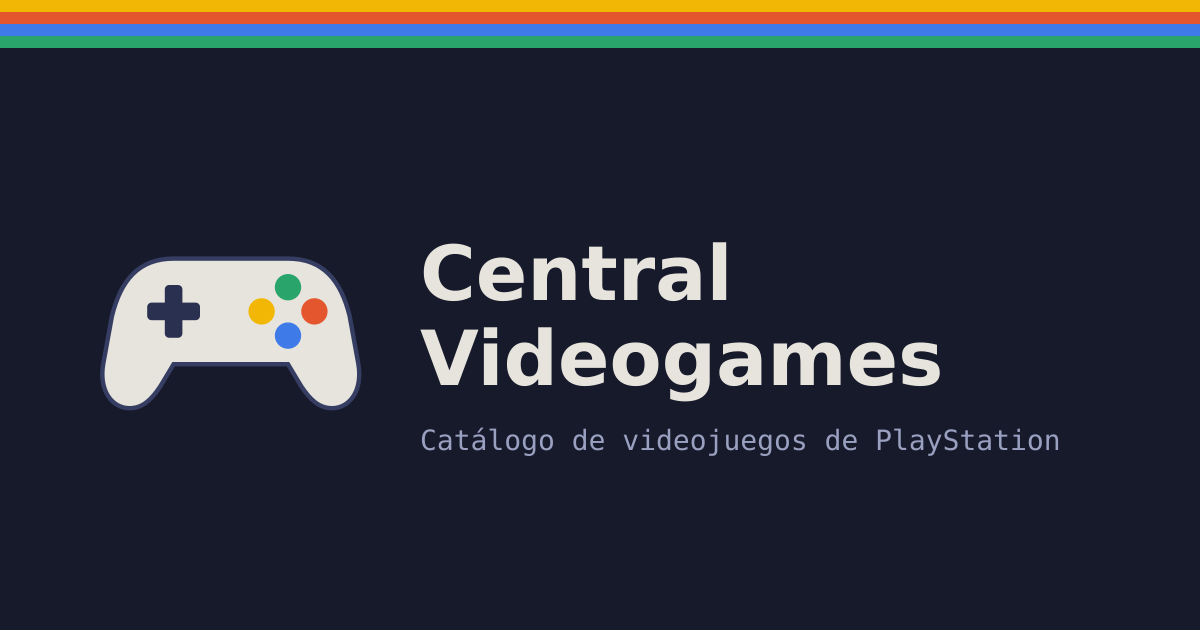
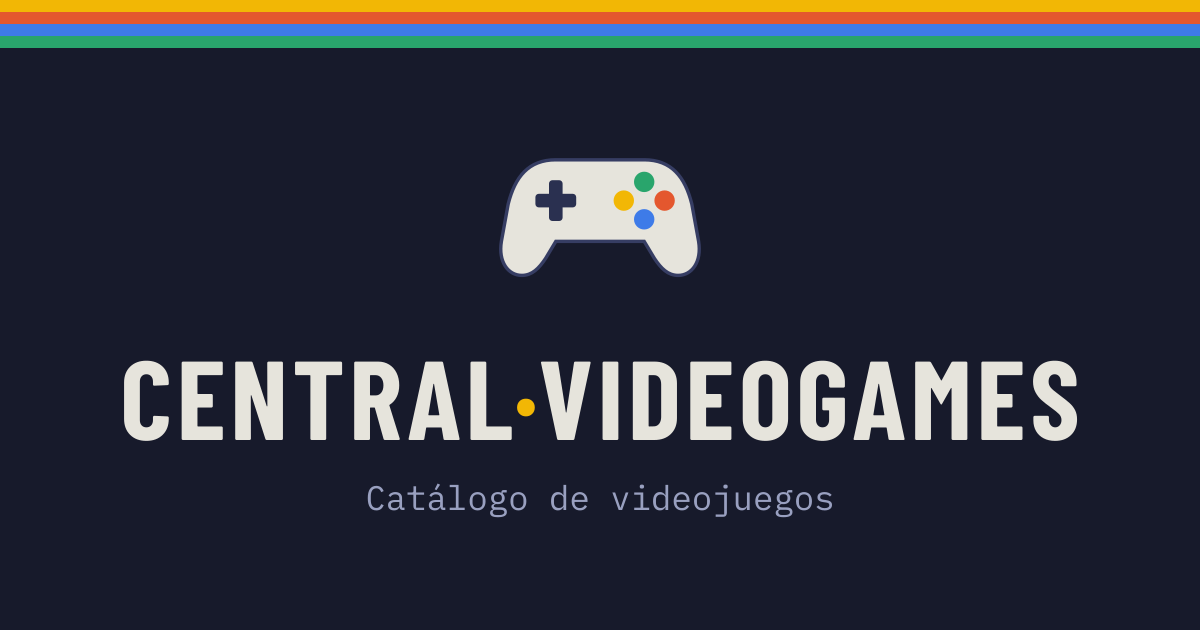
(UI) volver desde la ficha conserva los filtros, mando en cabecera y nueva imagen

Changed region(s): [[0.0617, 0.3921, 0.8942, 0.7238], [0.3392, 0.2413, 0.6167, 0.4825], [0.3083, 0.754, 0.7092, 0.8143]]

diff --git a/frontend/src/pages/GameDetailPage.jsx b/frontend/src/pages/GameDetailPage.jsx
@@ -1,5 +1,5 @@
 import { useState, useEffect, useRef } from 'react';
-import { useParams, Link, useNavigate } from 'react-router-dom';
+import { useParams, Link, useNavigate, useLocation } from 'react-router-dom';
 import { fetchGame, deleteGame, toNames, platformCodes, shellColor, coverImage } from '../api/games';
 import { useAuth } from '../auth/AuthContext';
 import GameFormModal from '../components/GameFormModal';
@@ -8,6 +8,17 @@ import GameTrailer from '../components/GameTrailer';
 export default function GameDetailPage() {
   const { id } = useParams();          // lee el :id de la URL /juegos/:id
   const navigate = useNavigate();
+  const location = useLocation();
+
+  // Si se llegó a la ficha navegando dentro de la app, volver atrás conserva
+  // los filtros del catálogo (van en la URL). Si se entró directamente (enlace
+  // compartido, recarga…) no hay historial propio: se va al catálogo.
+  function backToCatalog(e) {
+    if (location.key !== 'default') {
+      e.preventDefault();
+      navigate(-1);
+    }
+  }
   const { isAdmin } = useAuth();
 
   const [game, setGame] = useState(null);
@@ -56,7 +67,7 @@ export default function GameDetailPage() {
     return (
       <div className="notice">
         <p className="mb-3">{error}</p>
-        <Link to="/" className="btn btn-outline-light btn-sm">Volver al catálogo</Link>
+        <Link to="/" onClick={backToCatalog} className="btn btn-outline-light btn-sm">Volver al catálogo</Link>
       </div>
     );
   }
@@ -69,7 +80,7 @@ export default function GameDetailPage() {
 
   return (
     <article style={{ '--shell': shellColor(codes[0] || '') }}>
-      <Link to="/" className="eyebrow text-decoration-none d-inline-block mb-4">
+      <Link to="/" onClick={backToCatalog} className="eyebrow text-decoration-none d-inline-block mb-4">
         ← Catálogo
       </Link>
 

diff --git a/frontend/src/components/NavBar.jsx b/frontend/src/components/NavBar.jsx
@@ -49,6 +49,8 @@ export default function NavBar() {
     <header className="topbar">
       <div className="container d-flex align-items-center justify-content-between py-3 gap-3">
         <Link to="/" className="wordmark">
+          {/* En el móvil el mando haría saltar el texto a dos líneas */}
+          <img src="/favicon.svg" alt="" aria-hidden="true" className="wordmark-icon d-none d-sm-inline" />
           Central<span>·</span>Videogames
         </Link>
 

diff --git a/frontend/src/index.css b/frontend/src/index.css
@@ -101,6 +101,14 @@ body {
   color: var(--ps1);
 }
 
+/* El mando de colores (mismo dibujo que el favicon y la og-image) */
+.wordmark-icon {
+  width: 2rem;
+  height: 2rem;
+  margin-right: 0.5rem;
+  vertical-align: middle;
+}
+
 /* Pestañas CATÁLOGO / PENDIENTES / COLECCIÓN (admin y demo) */
 .section-tab {
   display: inline-flex;
